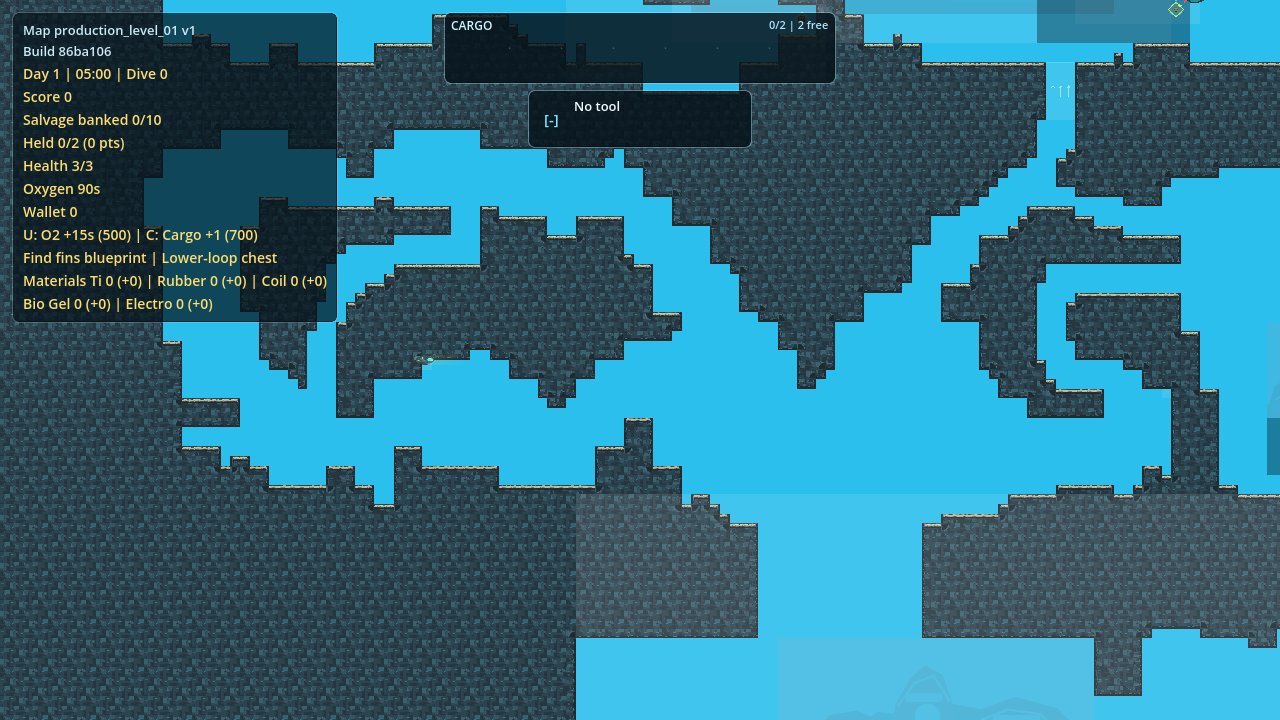
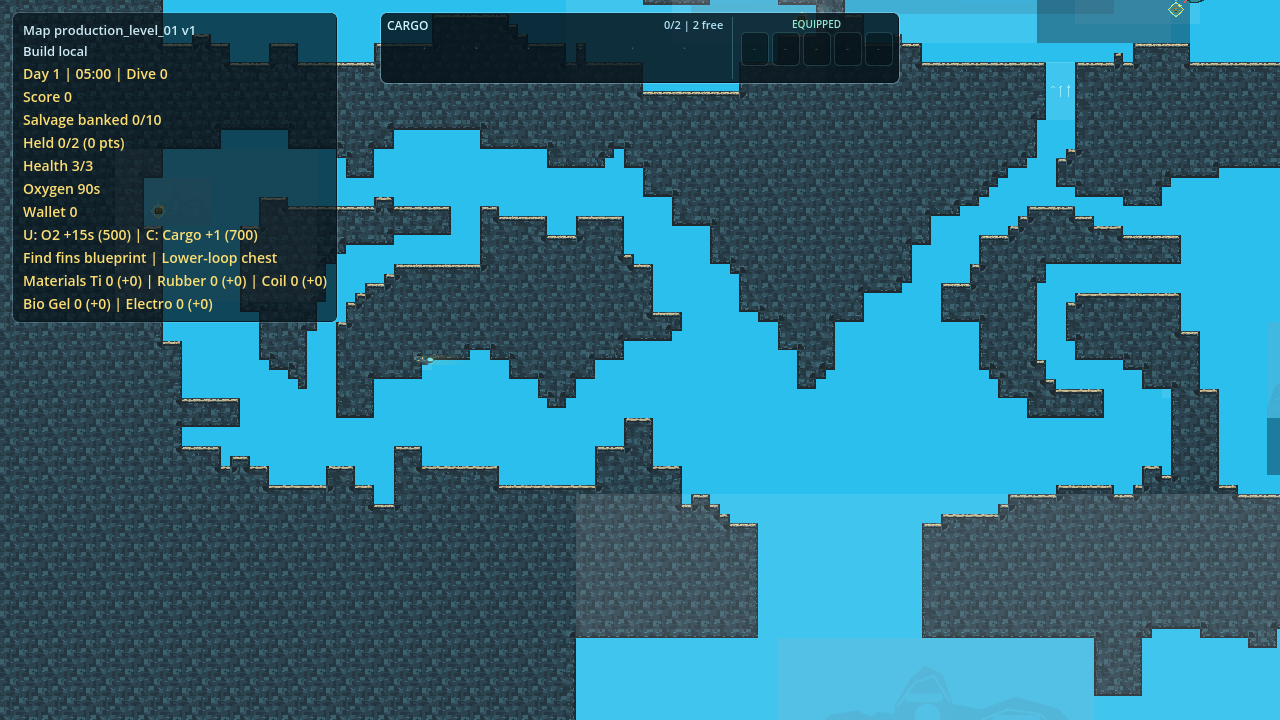
Accept Expansion 16 visual baseline (#1131)

diff --git a/docs/current/OCEANGAME_EXPANSION_16_VISUAL_BASELINE_DECISION.md b/docs/current/OCEANGAME_EXPANSION_16_VISUAL_BASELINE_DECISION.md
@@ -1,0 +1,81 @@
+# OceanGame Expansion 16 Visual Baseline Decision
+
+Date: 2026-07-28
+
+Issue: #1131 `Review and accept intentional Expansion 16 visual differences`
+
+Runtime source: `edc4f71abb9226d5d601a0f32573efb5a4936727`
+
+## Decision
+
+**Accepted** the current 14-image `production_level_01` baseline as one
+coherent desktop/mobile set.
+
+The accepted world difference is the source-authored far-west confined-wreck
+destination added for Expansion 16. The focused warning, protected, cutter,
+and scanner pairs remain ignored local evidence and were not promoted into
+`visual_baselines/`.
+
+No production-slice 01-04 baseline changed.
+
+## Intentional Expansion 16 Differences
+
+The overview and lower-left full-level contexts now include the far-west wreck
+backdrop, landmark, recorder, and survey presentation. These additions occupy
+existing open geography; terrain topology, collision-facing edges, and camera
+definitions do not change.
+
+The focused evidence shows:
+
+- unprotected `Confined wreck air | Oxygen x8` warning
+- protected `Rebreather active` feedback at the same threshold
+- selected Cutter with 50% recorder progress
+- held Scanner with 50% artifact progress and contextual card
+- readable status, cargo/equipment, tool, and touch-control surfaces at
+  1280x720 and the 844x390 landscape-mobile review size
+
+The scanner card is framed clear of the fixed status panel. Mobile controls do
+not cover status, cargo/equipment, active-tool, or scanner content.
+
+## Prior HUD Reconciliation
+
+The preceding full-level baseline predated two separately approved,
+source-backed HUD changes:
+
+- #1063 / PR #1064 moved active tools from the top `No tool` text panel to the
+  bottom icon hotbar.
+- #1074 / PR #1082 added the read-only `EQUIPPED` segment to the top cargo
+  strip.
+
+Both changes had focused desktop/mobile review and deterministic layout
+coverage but explicitly deferred baseline acceptance. They are identified
+here rather than being misattributed to Expansion 16. No unexplained HUD drift
+was accepted.
+
+## Stable Areas
+
+Before acceptance, all four production-slice review sheets had black
+difference columns. Full-level differences outside the attributed HUD surfaces
+and far-west source presentation were black: player, boat, terrain,
+collision-facing edges, camera framing, existing landmarks, and unrelated
+props remained unchanged.
+
+After acceptance, every configured full-level and production-slice difference
+panel is black. Accepted baseline directories contain no `.import` sidecars or
+unexpected generated files.
+
+## Verification
+
+```powershell
+& 'C:\Program Files\Godot\Godot_v4.7-stable_win64.exe\Godot_v4.7-stable_win64_console.exe' --path . --capture-expansion-16-deeper-wreck
+& 'C:\Program Files\Godot\Godot_v4.7-stable_win64.exe\Godot_v4.7-stable_win64_console.exe' --path . --capture-expansion-09-full-level
+python tools/check_camera_captures.py maps/production_level_01.greybox.json visual_captures/expansion_09_full_level --camera-id-prefix production_level_ --suffix 1280x720 --suffix mobile_844x390 --fail-on-stale
+python tools/manage_production_slice_baseline.py compare-all
+python tools/manage_production_slice_baseline.py --slice production_level_01 accept
+python tools/manage_production_slice_baseline.py compare-all
+python tools/manage_production_slice_baseline.py check-clean --all-slices
+python tools/check_file_lengths.py
+git diff --check
+```
+
+Exact-SHA public Web verification remains scoped to #1132.
